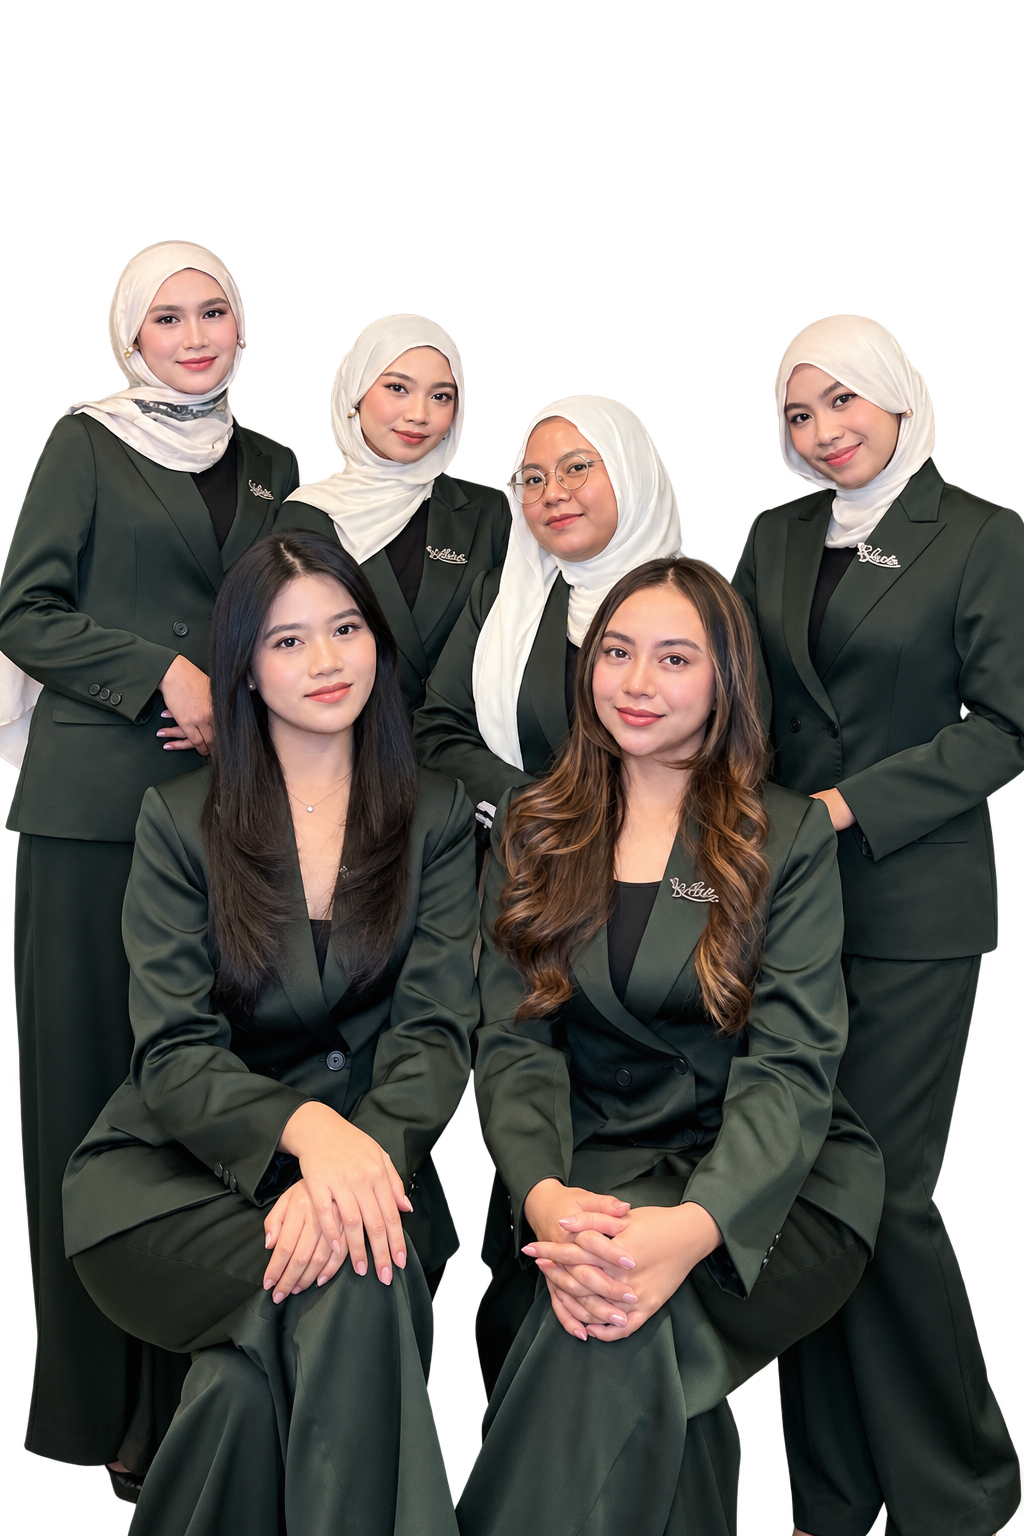
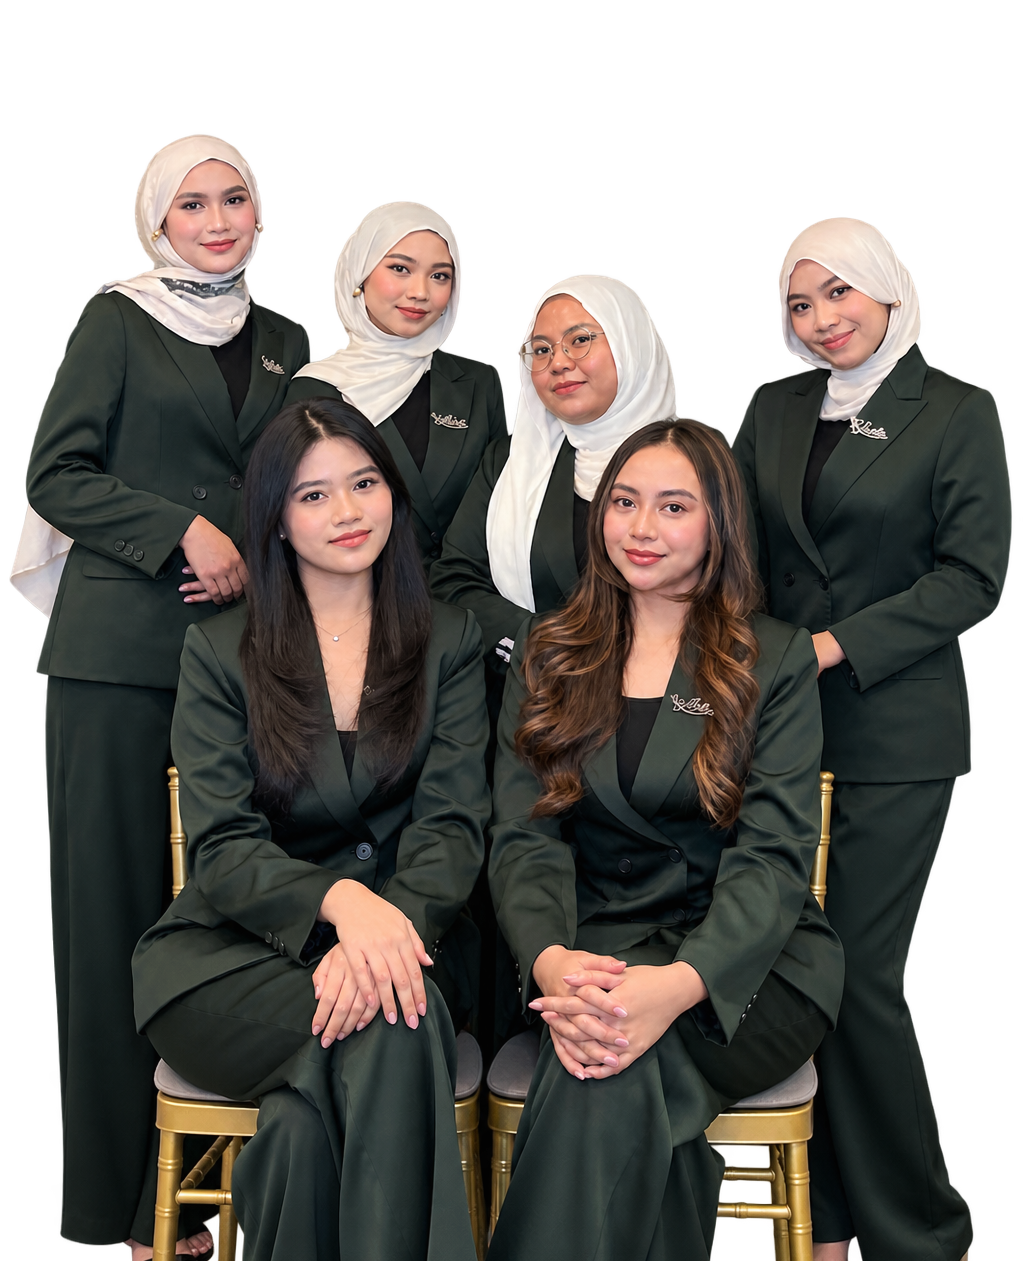
heroimg

diff --git a/css/index.css b/css/index.css
@@ -222,7 +222,7 @@ button {
 /* Slide dengan gambar tanpa background (PNG Transparan - heroimg1-nogb.png) */
 .hero__slide--nogb {
   background-size: contain !important;
-  background-position: right 6% center !important;
+  background-position: right 12% center !important;
   background-repeat: no-repeat !important;
   filter: drop-shadow(0 15px 30px rgba(0, 0, 0, 0.3));
 }
@@ -905,12 +905,12 @@ button {
 
 @media (max-width: 600px) {
   .hero__slide--nogb {
-    background-size: auto 52% !important;
-    background-position: center top 8% !important;
+    background-size: 110% auto !important;
+    background-position: center top 5% !important;
   }
   .hero__slide--artisan {
     background-size: auto 45% !important;
-    background-position: center top 8% !important;
+    background-position: center top 20% !important;
   }
 }
 
